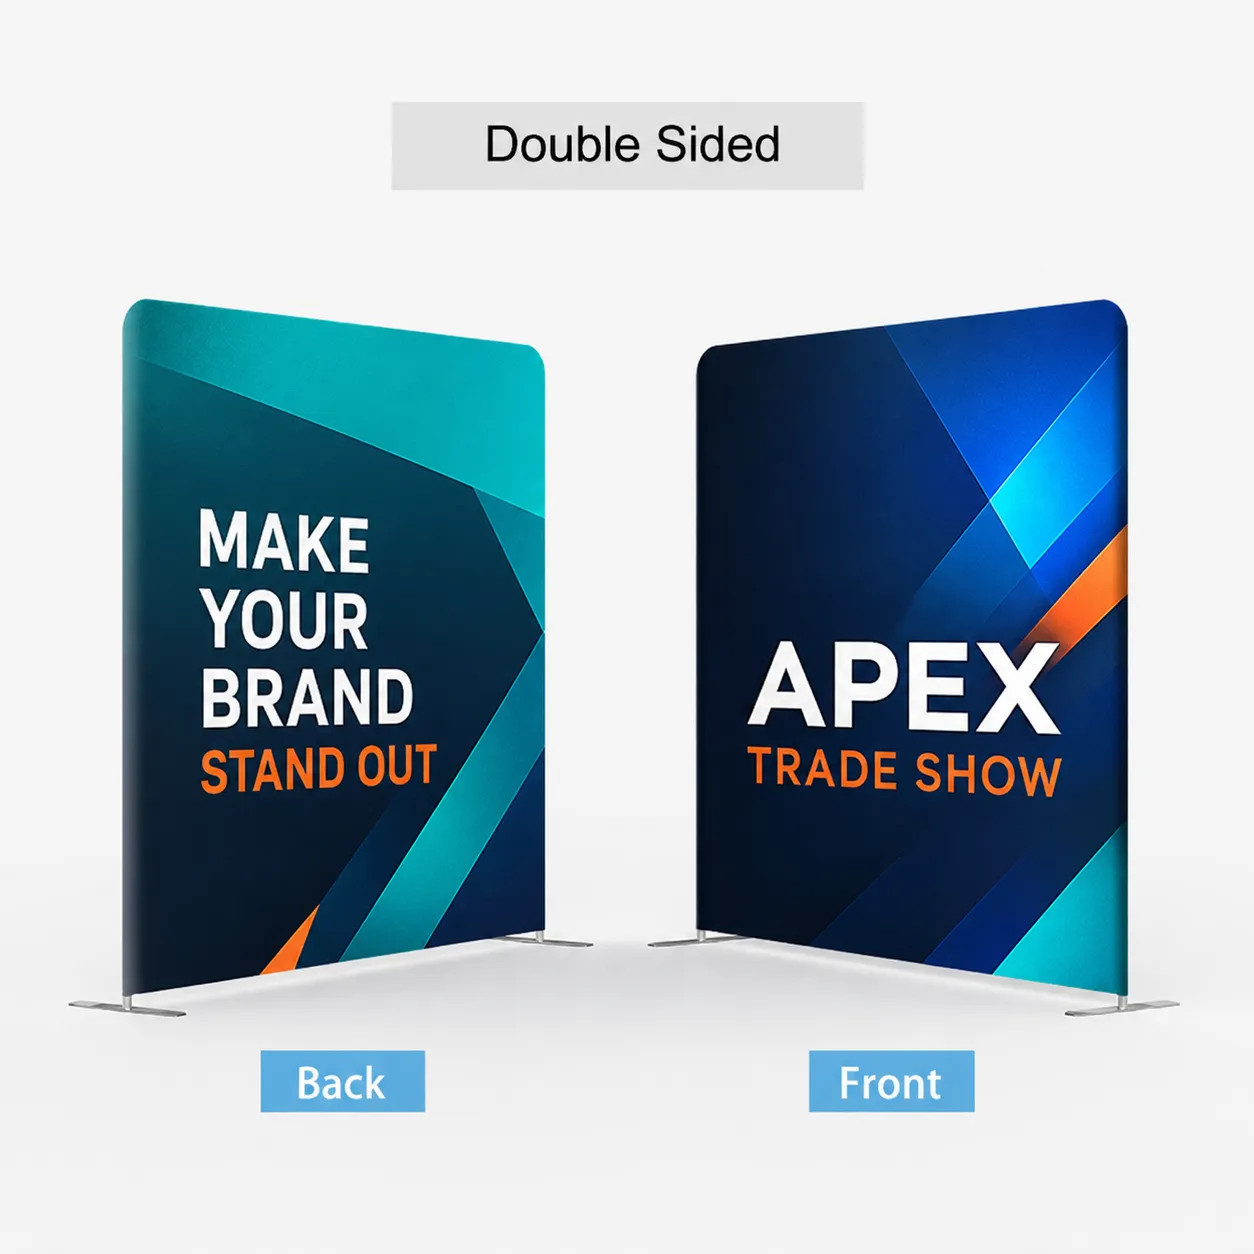
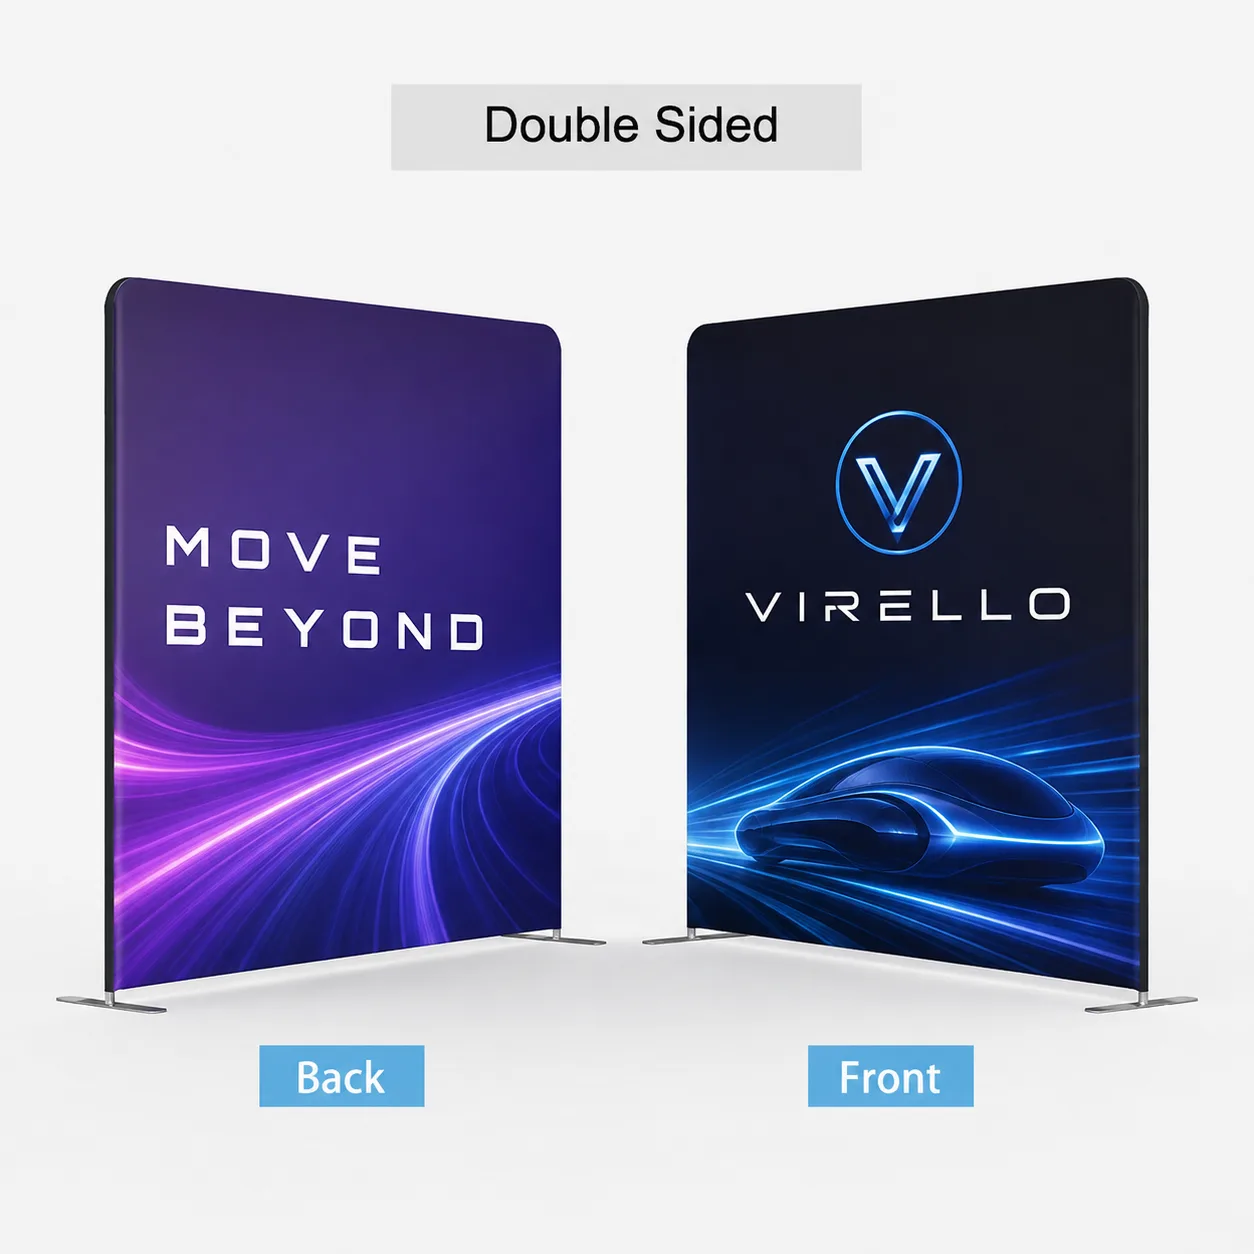
feat(product): refresh Straight Tension Fabric Display photos
Replace the branded display shots with the newer, higher-quality mockups
(hero, single-sided, double-sided, lifestyle-with-podium, packaging),
re-encoded to WebP (~48-99KB). Reused the same filenames so gallery/card
references stay valid; the card thumbnail auto-updates to the new hero.

Kept the two UNBRANDED hardware shots per request: the bare aluminum
frame and the push-button pole-connector detail.

Added a new lifestyle shot (food-brand graphic) to the gallery. Alt text
stays product-generic (does not reference the demo mockup brand).

verify-media + image-assignment + full npm test green.

diff --git a/backend/data/products.js b/backend/data/products.js
@@ -899,7 +899,8 @@ const tensionDisplay = {
     { src: '/images/displays/straight-tension-fabric-display-single-sided.webp', alt: 'Single-sided straight tension fabric display with a printed front and plain back' },
     { src: '/images/displays/straight-tension-fabric-display-frame.webp', alt: 'Lightweight aluminum tube frame of a straight tension fabric display' },
     { src: '/images/displays/straight-tension-fabric-display-frame-connector.webp', alt: 'Push-button aluminum pole connection detail of the tension fabric display frame' },
-    { src: '/images/displays/straight-tension-fabric-display-packaging.webp', alt: 'Straight tension fabric display packaging — soft canvas carry bag and hard case that converts to a podium' }
+    { src: '/images/displays/straight-tension-fabric-display-packaging.webp', alt: 'Straight tension fabric display packaging — soft canvas carry bag and hard case that converts to a podium' },
+    { src: '/images/displays/straight-tension-fabric-display-lifestyle-food.webp', alt: 'Straight tension fabric display with a full-color food-brand graphic at an exhibition booth' }
   ],
   features: [
     'Lightweight aluminum tube frame',
